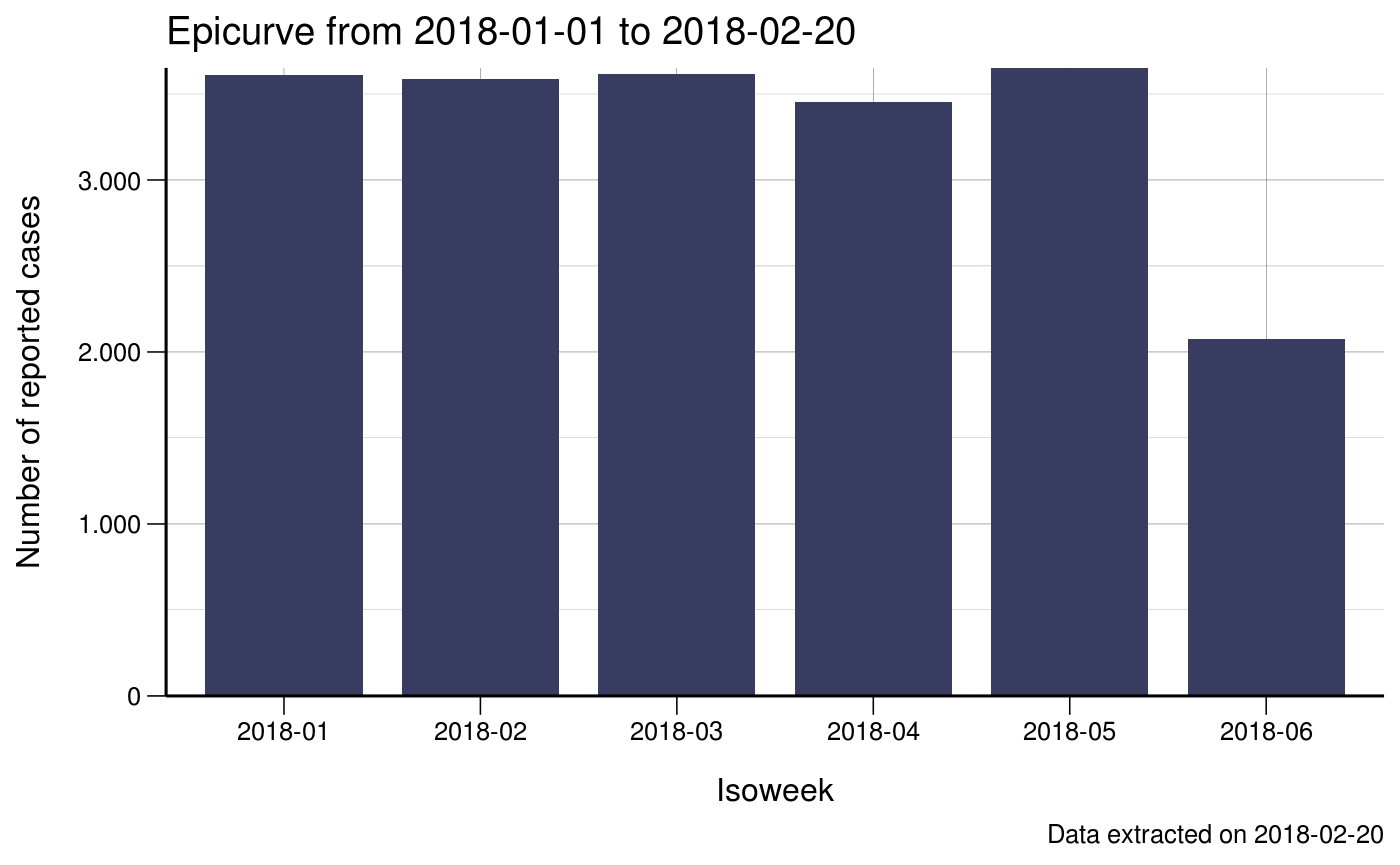
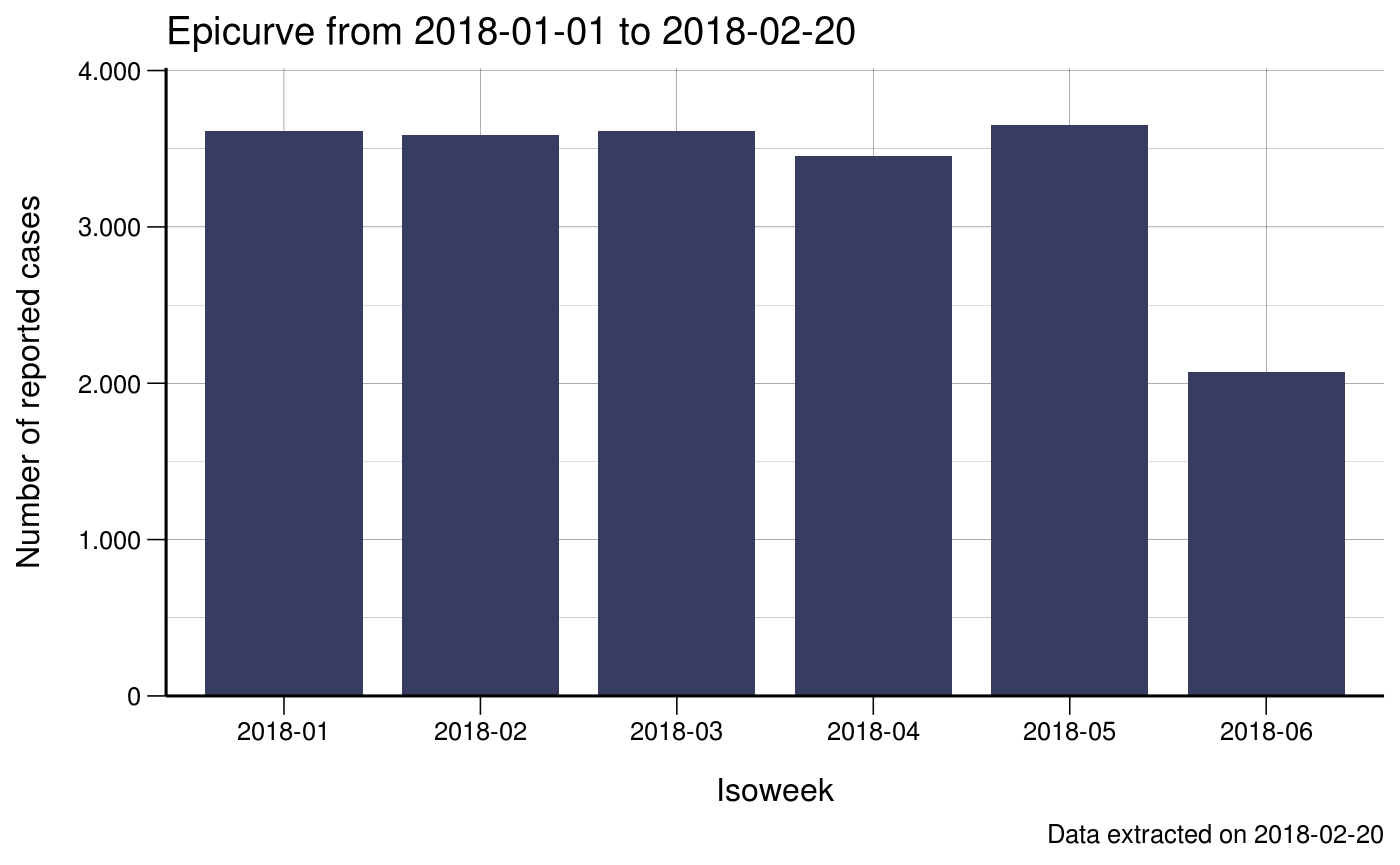
Deploy folkehelseinstituttet/fhiplot to github.com/folkehelseinstituttet/fhiplot.git:gh-pages

diff --git a/articles/epicurves.html b/articles/epicurves.html
@@ -92,7 +92,7 @@
 <a class="sourceLine" id="cb1-2" data-line-number="2"><span class="kw"><a href="https://www.rdocumentation.org/packages/base/topics/library">library</a></span>(data.table)</a>
 <a class="sourceLine" id="cb1-3" data-line-number="3"><span class="kw"><a href="https://www.rdocumentation.org/packages/base/topics/library">library</a></span>(fhiplot)</a>
 <a class="sourceLine" id="cb1-4" data-line-number="4"><span class="co">#&gt; PACKAGE: fhiplot</span></a>
-<a class="sourceLine" id="cb1-5" data-line-number="5"><span class="co">#&gt; Version 2019.06.24 at 08:35</span></a>
+<a class="sourceLine" id="cb1-5" data-line-number="5"><span class="co">#&gt; Version 2019.06.24 at 08:58</span></a>
 <a class="sourceLine" id="cb1-6" data-line-number="6"><span class="co">#&gt; Developed by Richard White, Norwegian Institute of Public Health</span></a></code></pre></div>
 <div id="data" class="section level2">
 <h2 class="hasAnchor">
@@ -227,7 +227,7 @@
 <a class="sourceLine" id="cb5-3" data-line-number="3">q &lt;-<span class="st"> </span>q <span class="op">+</span><span class="st"> </span><span class="kw"><a href="https://ggplot2.tidyverse.org/reference/scale_date.html">scale_x_date</a></span>(<span class="st">"Date"</span>)</a>
 <a class="sourceLine" id="cb5-4" data-line-number="4">q &lt;-<span class="st"> </span>q <span class="op">+</span><span class="st"> </span><span class="kw"><a href="https://ggplot2.tidyverse.org/reference/scale_continuous.html">scale_y_continuous</a></span>(<span class="st">"Number of reported cases"</span>,</a>
 <a class="sourceLine" id="cb5-5" data-line-number="5">  <span class="dt">breaks =</span> fhiplot<span class="op">::</span><span class="kw"><a href="https://www.rdocumentation.org/packages/fhiplot/topics/pretty_breaks">pretty_breaks</a></span>(<span class="dv">5</span>),</a>
-<a class="sourceLine" id="cb5-6" data-line-number="6">  <span class="dt">expand =</span> <span class="kw"><a href="https://www.rdocumentation.org/packages/base/topics/c">c</a></span>(<span class="dv">0</span>, <span class="dv">0</span>)</a>
+<a class="sourceLine" id="cb5-6" data-line-number="6">  <span class="dt">expand =</span> <span class="kw"><a href="https://ggplot2.tidyverse.org/reference/expand_scale.html">expand_scale</a></span>(<span class="dt">mult =</span> <span class="kw"><a href="https://www.rdocumentation.org/packages/base/topics/c">c</a></span>(<span class="dv">0</span>, <span class="fl">0.1</span>))</a>
 <a class="sourceLine" id="cb5-7" data-line-number="7">)</a>
 <a class="sourceLine" id="cb5-8" data-line-number="8">q &lt;-<span class="st"> </span>q <span class="op">+</span><span class="st"> </span><span class="kw"><a href="https://ggplot2.tidyverse.org/reference/labs.html">labs</a></span>(<span class="dt">title =</span> <span class="st">"Epicurve from 2018-01-01 to 2018-02-20"</span>)</a>
 <a class="sourceLine" id="cb5-9" data-line-number="9">q &lt;-<span class="st"> </span>q <span class="op">+</span><span class="st"> </span><span class="kw"><a href="https://ggplot2.tidyverse.org/reference/labs.html">labs</a></span>(<span class="dt">caption =</span> <span class="st">"Data extracted on 2018-02-20"</span>)</a>
@@ -240,7 +240,7 @@
 <a class="sourceLine" id="cb6-3" data-line-number="3">q &lt;-<span class="st"> </span>q <span class="op">+</span><span class="st"> </span><span class="kw"><a href="https://ggplot2.tidyverse.org/reference/scale_discrete.html">scale_x_discrete</a></span>(<span class="st">"Isoweek"</span>)</a>
 <a class="sourceLine" id="cb6-4" data-line-number="4">q &lt;-<span class="st"> </span>q <span class="op">+</span><span class="st"> </span><span class="kw"><a href="https://ggplot2.tidyverse.org/reference/scale_continuous.html">scale_y_continuous</a></span>(<span class="st">"Number of reported cases"</span>,</a>
 <a class="sourceLine" id="cb6-5" data-line-number="5">  <span class="dt">breaks =</span> fhiplot<span class="op">::</span><span class="kw"><a href="https://www.rdocumentation.org/packages/fhiplot/topics/pretty_breaks">pretty_breaks</a></span>(<span class="dv">5</span>),</a>
-<a class="sourceLine" id="cb6-6" data-line-number="6">  <span class="dt">expand =</span> <span class="kw"><a href="https://www.rdocumentation.org/packages/base/topics/c">c</a></span>(<span class="dv">0</span>, <span class="dv">0</span>)</a>
+<a class="sourceLine" id="cb6-6" data-line-number="6">  <span class="dt">expand =</span> <span class="kw"><a href="https://ggplot2.tidyverse.org/reference/expand_scale.html">expand_scale</a></span>(<span class="dt">mult =</span> <span class="kw"><a href="https://www.rdocumentation.org/packages/base/topics/c">c</a></span>(<span class="dv">0</span>, <span class="fl">0.1</span>))</a>
 <a class="sourceLine" id="cb6-7" data-line-number="7">)</a>
 <a class="sourceLine" id="cb6-8" data-line-number="8">q &lt;-<span class="st"> </span>q <span class="op">+</span><span class="st"> </span><span class="kw"><a href="https://ggplot2.tidyverse.org/reference/labs.html">labs</a></span>(<span class="dt">title =</span> <span class="st">"Epicurve from 2018-01-01 to 2018-02-20"</span>)</a>
 <a class="sourceLine" id="cb6-9" data-line-number="9">q &lt;-<span class="st"> </span>q <span class="op">+</span><span class="st"> </span><span class="kw"><a href="https://ggplot2.tidyverse.org/reference/labs.html">labs</a></span>(<span class="dt">caption =</span> <span class="st">"Data extracted on 2018-02-20"</span>)</a>
@@ -253,7 +253,7 @@
 <a class="sourceLine" id="cb7-3" data-line-number="3">q &lt;-<span class="st"> </span>q <span class="op">+</span><span class="st"> </span><span class="kw"><a href="https://ggplot2.tidyverse.org/reference/scale_discrete.html">scale_x_discrete</a></span>(<span class="st">"Isoweek"</span>)</a>
 <a class="sourceLine" id="cb7-4" data-line-number="4">q &lt;-<span class="st"> </span>q <span class="op">+</span><span class="st"> </span><span class="kw"><a href="https://ggplot2.tidyverse.org/reference/scale_continuous.html">scale_y_continuous</a></span>(<span class="st">"Number of reported cases"</span>,</a>
 <a class="sourceLine" id="cb7-5" data-line-number="5">  <span class="dt">breaks =</span> fhiplot<span class="op">::</span><span class="kw"><a href="https://www.rdocumentation.org/packages/fhiplot/topics/pretty_breaks">pretty_breaks</a></span>(<span class="dv">5</span>),</a>
-<a class="sourceLine" id="cb7-6" data-line-number="6">  <span class="dt">expand =</span> <span class="kw"><a href="https://www.rdocumentation.org/packages/base/topics/c">c</a></span>(<span class="dv">0</span>, <span class="dv">0</span>)</a>
+<a class="sourceLine" id="cb7-6" data-line-number="6">  <span class="dt">expand =</span> <span class="kw"><a href="https://ggplot2.tidyverse.org/reference/expand_scale.html">expand_scale</a></span>(<span class="dt">mult =</span> <span class="kw"><a href="https://www.rdocumentation.org/packages/base/topics/c">c</a></span>(<span class="dv">0</span>, <span class="fl">0.1</span>))</a>
 <a class="sourceLine" id="cb7-7" data-line-number="7">)</a>
 <a class="sourceLine" id="cb7-8" data-line-number="8">q &lt;-<span class="st"> </span>q <span class="op">+</span><span class="st"> </span><span class="kw"><a href="https://ggplot2.tidyverse.org/reference/labs.html">labs</a></span>(<span class="dt">title =</span> <span class="st">"Epicurve from 2018-01-01 to 2018-02-20"</span>)</a>
 <a class="sourceLine" id="cb7-9" data-line-number="9">q &lt;-<span class="st"> </span>q <span class="op">+</span><span class="st"> </span><span class="kw"><a href="https://ggplot2.tidyverse.org/reference/labs.html">labs</a></span>(<span class="dt">caption =</span> <span class="st">"Data extracted on 2018-02-20"</span>)</a>
@@ -274,13 +274,13 @@
 <a class="sourceLine" id="cb8-5" data-line-number="5">q &lt;-<span class="st"> </span>q <span class="op">+</span><span class="st"> </span><span class="kw"><a href="https://ggplot2.tidyverse.org/reference/scale_date.html">scale_x_date</a></span>(<span class="st">"Date"</span>)</a>
 <a class="sourceLine" id="cb8-6" data-line-number="6">q &lt;-<span class="st"> </span>q <span class="op">+</span><span class="st"> </span><span class="kw"><a href="https://ggplot2.tidyverse.org/reference/scale_continuous.html">scale_y_continuous</a></span>(<span class="st">"Number of reported cases"</span>,</a>
 <a class="sourceLine" id="cb8-7" data-line-number="7">  <span class="dt">breaks =</span> fhiplot<span class="op">::</span><span class="kw"><a href="https://www.rdocumentation.org/packages/fhiplot/topics/pretty_breaks">pretty_breaks</a></span>(<span class="dv">5</span>),</a>
-<a class="sourceLine" id="cb8-8" data-line-number="8">  <span class="dt">expand =</span> <span class="kw"><a href="https://www.rdocumentation.org/packages/base/topics/c">c</a></span>(<span class="dv">0</span>, <span class="dv">0</span>)</a>
+<a class="sourceLine" id="cb8-8" data-line-number="8">  <span class="dt">expand =</span> <span class="kw"><a href="https://ggplot2.tidyverse.org/reference/expand_scale.html">expand_scale</a></span>(<span class="dt">mult =</span> <span class="kw"><a href="https://www.rdocumentation.org/packages/base/topics/c">c</a></span>(<span class="dv">0</span>, <span class="fl">0.1</span>))</a>
 <a class="sourceLine" id="cb8-9" data-line-number="9">)</a>
 <a class="sourceLine" id="cb8-10" data-line-number="10">q &lt;-<span class="st"> </span>q <span class="op">+</span><span class="st"> </span><span class="kw"><a href="https://ggplot2.tidyverse.org/reference/labs.html">labs</a></span>(<span class="dt">title =</span> <span class="st">"Epicurve from 2018-01-01 to 2018-02-20"</span>)</a>
 <a class="sourceLine" id="cb8-11" data-line-number="11">q &lt;-<span class="st"> </span>q <span class="op">+</span><span class="st"> </span><span class="kw"><a href="https://ggplot2.tidyverse.org/reference/labs.html">labs</a></span>(<span class="dt">caption =</span> <span class="st">"Data extracted on 2018-02-20"</span>)</a>
 <a class="sourceLine" id="cb8-12" data-line-number="12">q &lt;-<span class="st"> </span>q <span class="op">+</span><span class="st"> </span>fhiplot<span class="op">::</span><span class="kw"><a href="https://www.rdocumentation.org/packages/fhiplot/topics/theme_fhi_lines">theme_fhi_lines</a></span>()</a>
 <a class="sourceLine" id="cb8-13" data-line-number="13">q</a></code></pre></div>
-<p><img src="epicurves_files/figure-html/unnamed-chunk-8-1.png" width="700"></p>
+<p><img src="epicurves_files/figure-html/unnamed-chunk-8-1.png" width="576"></p>
 <p>Weekly epicurve for <code>county01</code></p>
 <div class="sourceCode" id="cb9"><pre class="sourceCode r"><code class="sourceCode r"><a class="sourceLine" id="cb9-1" data-line-number="1">q &lt;-<span class="st"> </span><span class="kw"><a href="https://ggplot2.tidyverse.org/reference/ggplot.html">ggplot</a></span>(d, <span class="kw"><a href="https://ggplot2.tidyverse.org/reference/aes.html">aes</a></span>(<span class="dt">x =</span> isoyear_isoweek, <span class="dt">y =</span> N))</a>
 <a class="sourceLine" id="cb9-2" data-line-number="2">q &lt;-<span class="st"> </span>q <span class="op">+</span><span class="st"> </span><span class="kw"><a href="https://ggplot2.tidyverse.org/reference/geom_bar.html">geom_col</a></span>(<span class="dt">fill =</span> fhiplot<span class="op">::</span>base_color, <span class="dt">width =</span> <span class="fl">0.8</span>)</a>
@@ -289,13 +289,13 @@
 <a class="sourceLine" id="cb9-5" data-line-number="5">q &lt;-<span class="st"> </span>q <span class="op">+</span><span class="st"> </span><span class="kw"><a href="https://ggplot2.tidyverse.org/reference/scale_discrete.html">scale_x_discrete</a></span>(<span class="st">"Isoweek"</span>)</a>
 <a class="sourceLine" id="cb9-6" data-line-number="6">q &lt;-<span class="st"> </span>q <span class="op">+</span><span class="st"> </span><span class="kw"><a href="https://ggplot2.tidyverse.org/reference/scale_continuous.html">scale_y_continuous</a></span>(<span class="st">"Number of reported cases"</span>,</a>
 <a class="sourceLine" id="cb9-7" data-line-number="7">  <span class="dt">breaks =</span> fhiplot<span class="op">::</span><span class="kw"><a href="https://www.rdocumentation.org/packages/fhiplot/topics/pretty_breaks">pretty_breaks</a></span>(<span class="dv">5</span>),</a>
-<a class="sourceLine" id="cb9-8" data-line-number="8">  <span class="dt">expand =</span> <span class="kw"><a href="https://www.rdocumentation.org/packages/base/topics/c">c</a></span>(<span class="dv">0</span>, <span class="dv">0</span>)</a>
+<a class="sourceLine" id="cb9-8" data-line-number="8">  <span class="dt">expand =</span> <span class="kw"><a href="https://ggplot2.tidyverse.org/reference/expand_scale.html">expand_scale</a></span>(<span class="dt">mult =</span> <span class="kw"><a href="https://www.rdocumentation.org/packages/base/topics/c">c</a></span>(<span class="dv">0</span>, <span class="fl">0.1</span>))</a>
 <a class="sourceLine" id="cb9-9" data-line-number="9">)</a>
 <a class="sourceLine" id="cb9-10" data-line-number="10">q &lt;-<span class="st"> </span>q <span class="op">+</span><span class="st"> </span><span class="kw"><a href="https://ggplot2.tidyverse.org/reference/labs.html">labs</a></span>(<span class="dt">title =</span> <span class="st">"Epicurve from 2018-01-01 to 2018-02-20"</span>)</a>
 <a class="sourceLine" id="cb9-11" data-line-number="11">q &lt;-<span class="st"> </span>q <span class="op">+</span><span class="st"> </span><span class="kw"><a href="https://ggplot2.tidyverse.org/reference/labs.html">labs</a></span>(<span class="dt">caption =</span> <span class="st">"Data extracted on 2018-02-20"</span>)</a>
 <a class="sourceLine" id="cb9-12" data-line-number="12">q &lt;-<span class="st"> </span>q <span class="op">+</span><span class="st"> </span>fhiplot<span class="op">::</span><span class="kw"><a href="https://www.rdocumentation.org/packages/fhiplot/topics/theme_fhi_lines">theme_fhi_lines</a></span>()</a>
 <a class="sourceLine" id="cb9-13" data-line-number="13">q</a></code></pre></div>
-<p><img src="epicurves_files/figure-html/unnamed-chunk-9-1.png" width="700"></p>
+<p><img src="epicurves_files/figure-html/unnamed-chunk-9-1.png" width="576"></p>
 <p>Weekly epicurve with vertical x-axis labels</p>
 <div class="sourceCode" id="cb10"><pre class="sourceCode r"><code class="sourceCode r"><a class="sourceLine" id="cb10-1" data-line-number="1">q &lt;-<span class="st"> </span><span class="kw"><a href="https://ggplot2.tidyverse.org/reference/ggplot.html">ggplot</a></span>(d, <span class="kw"><a href="https://ggplot2.tidyverse.org/reference/aes.html">aes</a></span>(<span class="dt">x =</span> isoyear_isoweek, <span class="dt">y =</span> N))</a>
 <a class="sourceLine" id="cb10-2" data-line-number="2">q &lt;-<span class="st"> </span>q <span class="op">+</span><span class="st"> </span><span class="kw"><a href="https://ggplot2.tidyverse.org/reference/geom_bar.html">geom_col</a></span>(<span class="dt">fill =</span> fhiplot<span class="op">::</span>base_color, <span class="dt">width =</span> <span class="fl">0.8</span>)</a>
@@ -304,14 +304,14 @@
 <a class="sourceLine" id="cb10-5" data-line-number="5">q &lt;-<span class="st"> </span>q <span class="op">+</span><span class="st"> </span><span class="kw"><a href="https://ggplot2.tidyverse.org/reference/scale_discrete.html">scale_x_discrete</a></span>(<span class="st">"Isoweek"</span>)</a>
 <a class="sourceLine" id="cb10-6" data-line-number="6">q &lt;-<span class="st"> </span>q <span class="op">+</span><span class="st"> </span><span class="kw"><a href="https://ggplot2.tidyverse.org/reference/scale_continuous.html">scale_y_continuous</a></span>(<span class="st">"Number of reported cases"</span>,</a>
 <a class="sourceLine" id="cb10-7" data-line-number="7">  <span class="dt">breaks =</span> fhiplot<span class="op">::</span><span class="kw"><a href="https://www.rdocumentation.org/packages/fhiplot/topics/pretty_breaks">pretty_breaks</a></span>(<span class="dv">5</span>),</a>
-<a class="sourceLine" id="cb10-8" data-line-number="8">  <span class="dt">expand =</span> <span class="kw"><a href="https://www.rdocumentation.org/packages/base/topics/c">c</a></span>(<span class="dv">0</span>, <span class="dv">0</span>)</a>
+<a class="sourceLine" id="cb10-8" data-line-number="8">  <span class="dt">expand =</span> <span class="kw"><a href="https://ggplot2.tidyverse.org/reference/expand_scale.html">expand_scale</a></span>(<span class="dt">mult =</span> <span class="kw"><a href="https://www.rdocumentation.org/packages/base/topics/c">c</a></span>(<span class="dv">0</span>, <span class="fl">0.1</span>))</a>
 <a class="sourceLine" id="cb10-9" data-line-number="9">)</a>
 <a class="sourceLine" id="cb10-10" data-line-number="10">q &lt;-<span class="st"> </span>q <span class="op">+</span><span class="st"> </span><span class="kw"><a href="https://ggplot2.tidyverse.org/reference/labs.html">labs</a></span>(<span class="dt">title =</span> <span class="st">"Epicurve from 2018-01-01 to 2018-02-20"</span>)</a>
 <a class="sourceLine" id="cb10-11" data-line-number="11">q &lt;-<span class="st"> </span>q <span class="op">+</span><span class="st"> </span><span class="kw"><a href="https://ggplot2.tidyverse.org/reference/labs.html">labs</a></span>(<span class="dt">caption =</span> <span class="st">"Data extracted on 2018-02-20"</span>)</a>
 <a class="sourceLine" id="cb10-12" data-line-number="12">q &lt;-<span class="st"> </span>q <span class="op">+</span><span class="st"> </span><span class="kw"><a href="../reference/theme_fhi_lines.html">theme_fhi_lines</a></span>()</a>
 <a class="sourceLine" id="cb10-13" data-line-number="13">q &lt;-<span class="st"> </span>q <span class="op">+</span><span class="st"> </span>fhiplot<span class="op">::</span><span class="kw"><a href="https://www.rdocumentation.org/packages/fhiplot/topics/set_x_axis_vertical">set_x_axis_vertical</a></span>()</a>
 <a class="sourceLine" id="cb10-14" data-line-number="14">q</a></code></pre></div>
-<p><img src="epicurves_files/figure-html/unnamed-chunk-10-1.png" width="700"></p>
+<p><img src="epicurves_files/figure-html/unnamed-chunk-10-1.png" width="576"></p>
 </div>
 <div id="coloured-epicurves" class="section level2">
 <h2 class="hasAnchor">
@@ -329,7 +329,7 @@
 <a class="sourceLine" id="cb11-10" data-line-number="10">q &lt;-<span class="st"> </span>q <span class="op">+</span><span class="st"> </span><span class="kw"><a href="https://ggplot2.tidyverse.org/reference/scale_discrete.html">scale_x_discrete</a></span>(<span class="st">"Isoweek"</span>)</a>
 <a class="sourceLine" id="cb11-11" data-line-number="11">q &lt;-<span class="st"> </span>q <span class="op">+</span><span class="st"> </span><span class="kw"><a href="https://ggplot2.tidyverse.org/reference/scale_continuous.html">scale_y_continuous</a></span>(<span class="st">"Number of reported cases"</span>,</a>
 <a class="sourceLine" id="cb11-12" data-line-number="12">  <span class="dt">breaks =</span> fhiplot<span class="op">::</span><span class="kw"><a href="https://www.rdocumentation.org/packages/fhiplot/topics/pretty_breaks">pretty_breaks</a></span>(<span class="dv">5</span>),</a>
-<a class="sourceLine" id="cb11-13" data-line-number="13">  <span class="dt">expand =</span> <span class="kw"><a href="https://www.rdocumentation.org/packages/base/topics/c">c</a></span>(<span class="dv">0</span>, <span class="dv">0</span>)</a>
+<a class="sourceLine" id="cb11-13" data-line-number="13">  <span class="dt">expand =</span> <span class="kw"><a href="https://ggplot2.tidyverse.org/reference/expand_scale.html">expand_scale</a></span>(<span class="dt">mult =</span> <span class="kw"><a href="https://www.rdocumentation.org/packages/base/topics/c">c</a></span>(<span class="dv">0</span>, <span class="fl">0.1</span>))</a>
 <a class="sourceLine" id="cb11-14" data-line-number="14">)</a>
 <a class="sourceLine" id="cb11-15" data-line-number="15">q &lt;-<span class="st"> </span>q <span class="op">+</span><span class="st"> </span><span class="kw"><a href="https://ggplot2.tidyverse.org/reference/labs.html">labs</a></span>(<span class="dt">title =</span> <span class="st">"Epicurve from 2018-01-01 to 2018-02-20"</span>)</a>
 <a class="sourceLine" id="cb11-16" data-line-number="16">q &lt;-<span class="st"> </span>q <span class="op">+</span><span class="st"> </span><span class="kw"><a href="https://ggplot2.tidyverse.org/reference/labs.html">labs</a></span>(<span class="dt">caption =</span> <span class="st">"Data extracted on 2018-02-20"</span>)</a>

diff --git a/articles/palettes.html b/articles/palettes.html
@@ -91,7 +91,7 @@
 <div class="sourceCode" id="cb1"><pre class="sourceCode r"><code class="sourceCode r"><a class="sourceLine" id="cb1-1" data-line-number="1"><span class="kw"><a href="https://www.rdocumentation.org/packages/base/topics/library">library</a></span>(ggplot2)</a>
 <a class="sourceLine" id="cb1-2" data-line-number="2"><span class="kw"><a href="https://www.rdocumentation.org/packages/base/topics/library">library</a></span>(fhiplot)</a>
 <a class="sourceLine" id="cb1-3" data-line-number="3"><span class="co">#&gt; PACKAGE: fhiplot</span></a>
-<a class="sourceLine" id="cb1-4" data-line-number="4"><span class="co">#&gt; Version 2019.06.24 at 08:35</span></a>
+<a class="sourceLine" id="cb1-4" data-line-number="4"><span class="co">#&gt; Version 2019.06.24 at 08:58</span></a>
 <a class="sourceLine" id="cb1-5" data-line-number="5"><span class="co">#&gt; Developed by Richard White, Norwegian Institute of Public Health</span></a></code></pre></div>
 <div id="palette" class="section level2">
 <h2 class="hasAnchor">

diff --git a/articles/themes.html b/articles/themes.html
@@ -91,7 +91,7 @@
 <div class="sourceCode" id="cb1"><pre class="sourceCode r"><code class="sourceCode r"><a class="sourceLine" id="cb1-1" data-line-number="1"><span class="kw"><a href="https://www.rdocumentation.org/packages/base/topics/library">library</a></span>(ggplot2)</a>
 <a class="sourceLine" id="cb1-2" data-line-number="2"><span class="kw"><a href="https://www.rdocumentation.org/packages/base/topics/library">library</a></span>(fhiplot)</a>
 <a class="sourceLine" id="cb1-3" data-line-number="3"><span class="co">#&gt; PACKAGE: fhiplot</span></a>
-<a class="sourceLine" id="cb1-4" data-line-number="4"><span class="co">#&gt; Version 2019.06.24 at 08:35</span></a>
+<a class="sourceLine" id="cb1-4" data-line-number="4"><span class="co">#&gt; Version 2019.06.24 at 08:58</span></a>
 <a class="sourceLine" id="cb1-5" data-line-number="5"><span class="co">#&gt; Developed by Richard White, Norwegian Institute of Public Health</span></a></code></pre></div>
 <div id="points" class="section level2">
 <h2 class="hasAnchor">
